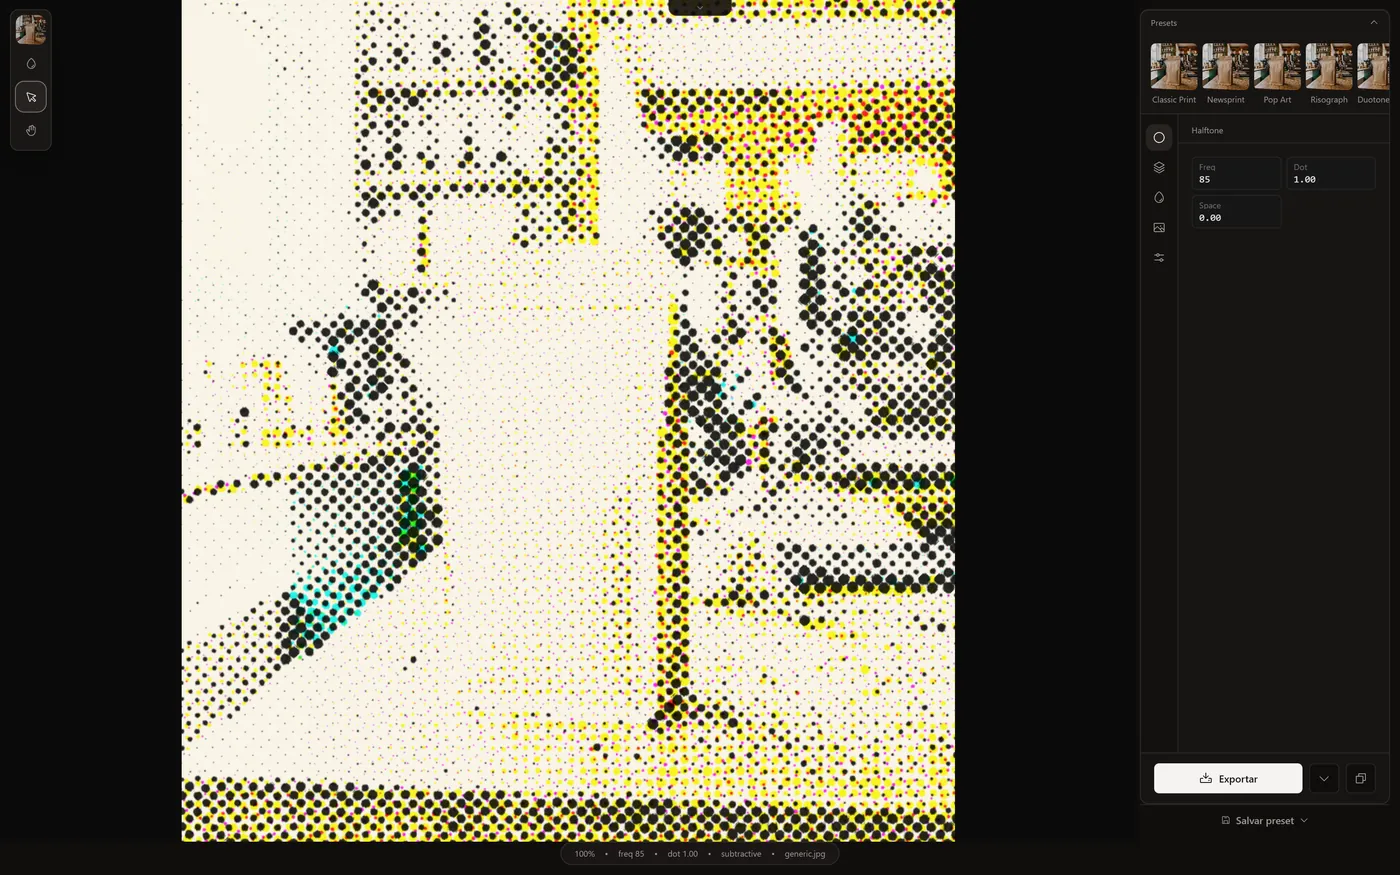
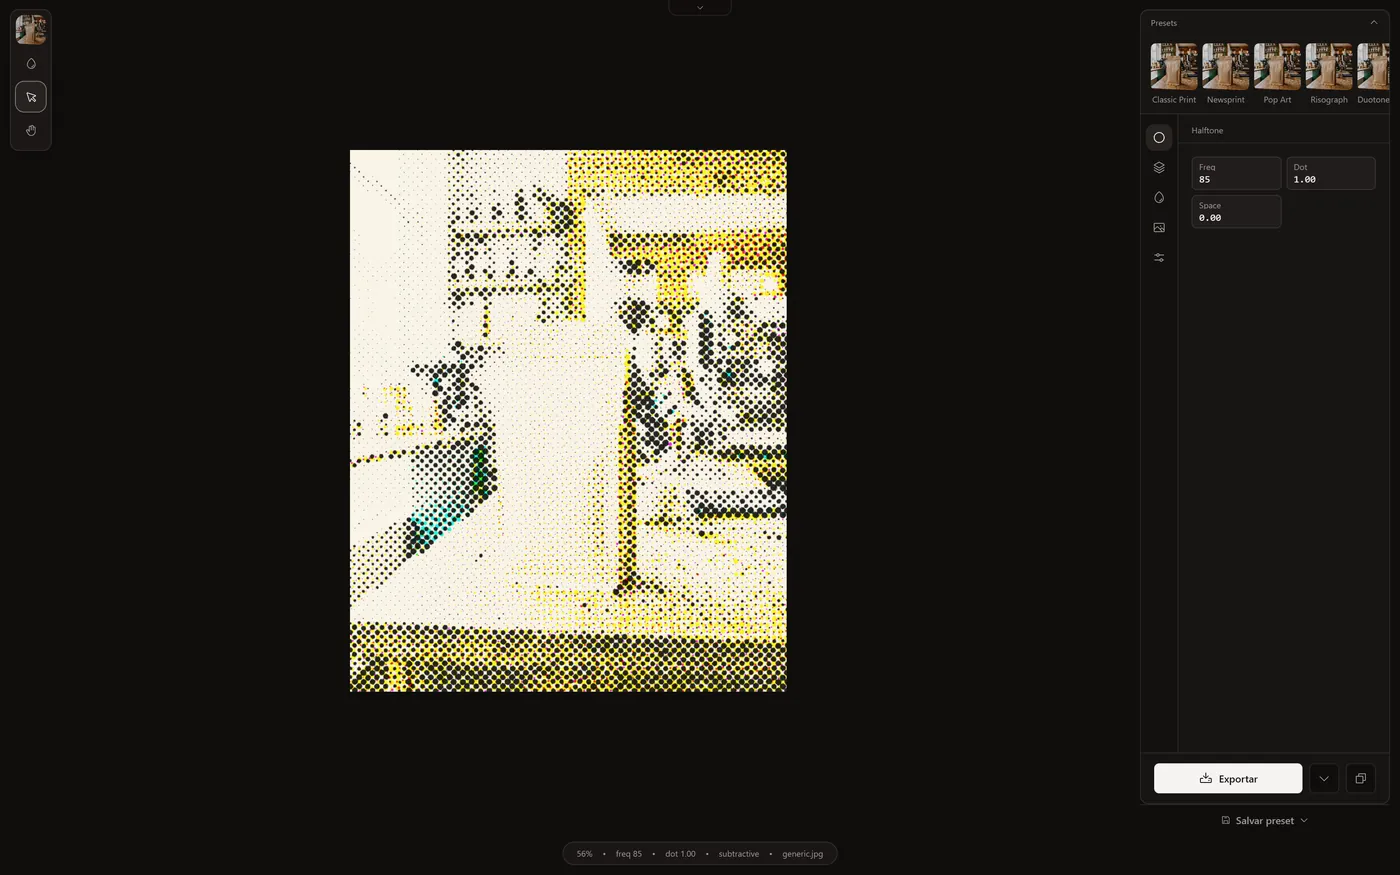
test(nav): rail com foco no ouro; capas reais de Mockup e Image Lab
O teste de visibleSections descrevia o rail antigo (Copilot e Canvas).
Agora segue HIDE_APPS_ENABLED. Capas de /apps do Mockup Machine (UI
atual) e do Image Lab (foto inteira com painel, não recorte de 100%)
refeitas por capture-app-shots, que ganha a opção wheel (zoom out).

diff --git a/tests/unit/navConfig.test.ts b/tests/unit/navConfig.test.ts
@@ -12,6 +12,7 @@ import {
   NAV_SECTIONS,
   type NavCtx,
 } from '@/config/navConfig';
+import { HIDE_APPS_ENABLED } from '../../src/config/hiddenApps';
 
 const baseCtx: NavCtx = {
   isAuthenticated: true,
@@ -213,9 +214,11 @@ describe('visibleSections', () => {
     expect(ids).not.toContain('brands'); // colapsado no Início (HOME-ADAPTIVE-IA)
   });
 
-  it('mostra tudo com as flags on', () => {
+  it('com as flags on, o foco no ouro (hiddenApps) tira Copilot e Canvas do rail', () => {
     const ids = visibleSections(baseCtx).map((s) => s.id);
-    expect(ids).toEqual(['cockpit', 'copilot', 'canvas', 'apps']);
+    expect(ids).toEqual(
+      HIDE_APPS_ENABLED ? ['cockpit', 'apps'] : ['cockpit', 'copilot', 'canvas', 'apps']
+    );
   });
 });
 
